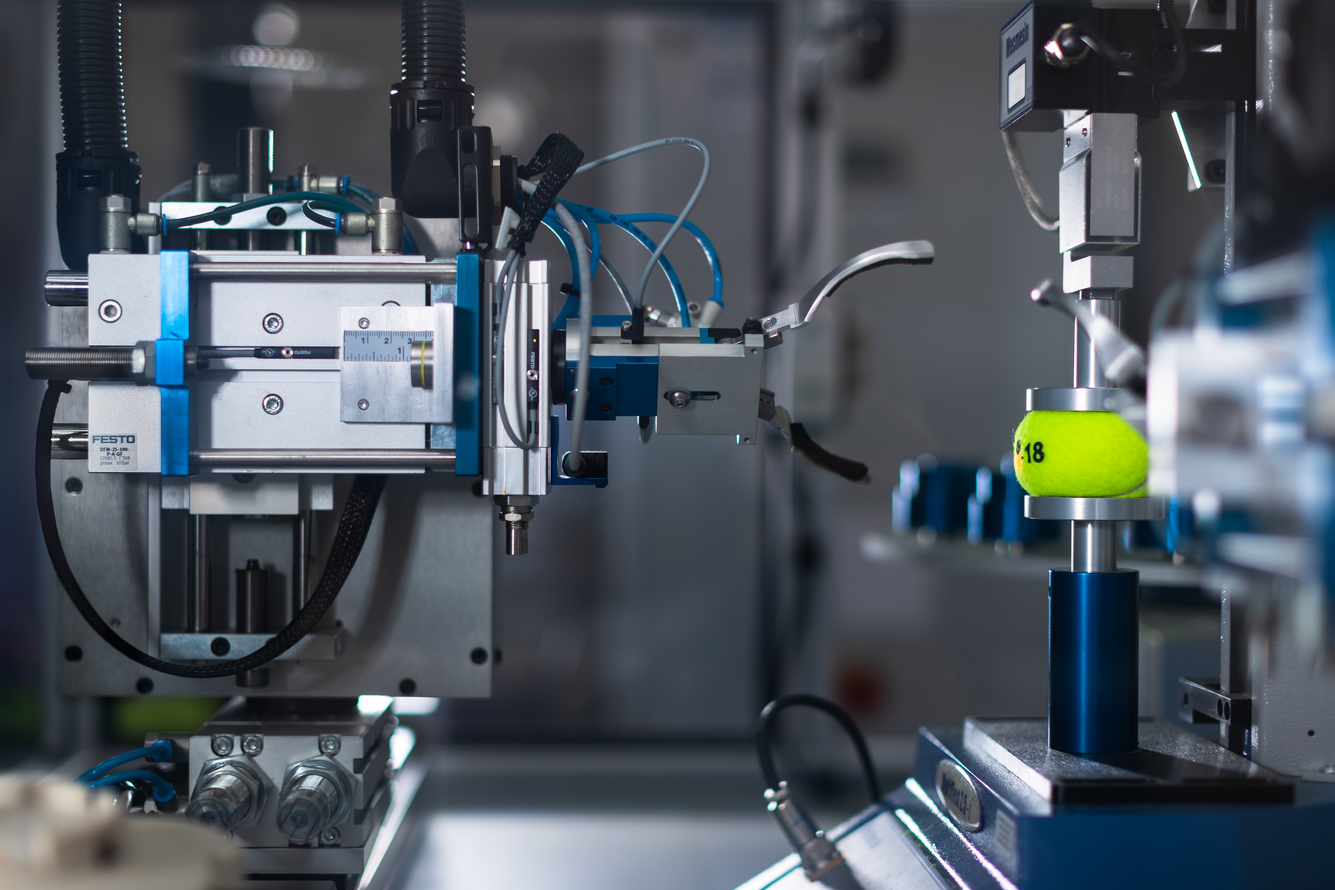
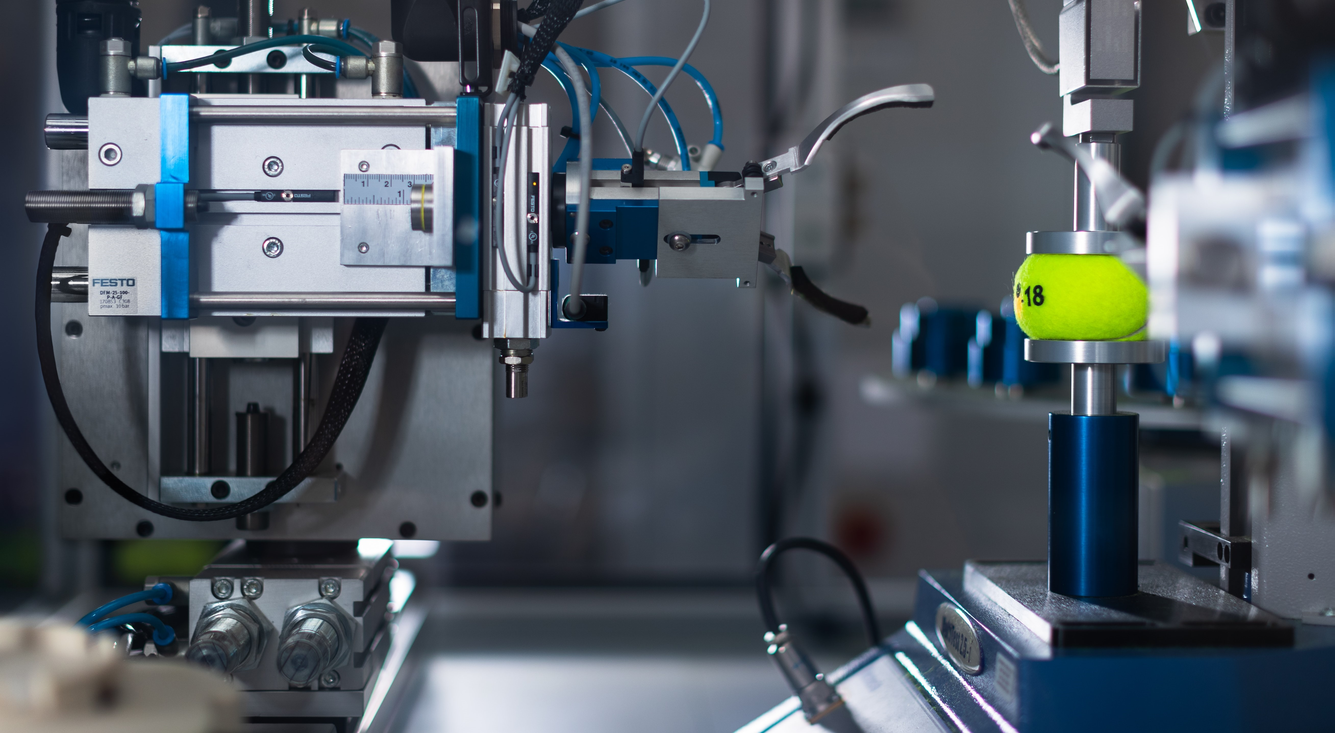
front end version intro

diff --git a/index.html b/index.html
@@ -14,6 +14,7 @@
     
     <link rel="stylesheet" href="https://use.fontawesome.com/releases/v5.7.0/css/all.css" integrity="sha384-lZN37f5QGtY3VHgisS14W3ExzMWZxybE1SJSEsQp9S+oqd12jhcu+A56Ebc1zFSJ" crossorigin="anonymous">
     <link href="https://cdn.jsdelivr.net/npm/bootstrap@5.2.3/dist/css/bootstrap.min.css" rel="stylesheet" integrity="sha384-rbsA2VBKQhggwzxH7pPCaAqO46MgnOM80zW1RWuH61DGLwZJEdK2Kadq2F9CUG65" crossorigin="anonymous">
+    <link rel="stylesheet" href="https://cdn.jsdelivr.net/npm/swiper@9/swiper-bundle.min.css" />
     <link rel="stylesheet" href="assets/css/style.css">
     <!-- Custom styles for this template -->
 
@@ -58,7 +59,7 @@
       <div id="myCarousel" class="carousel slide" data-bs-ride="carousel">
         <div class="carousel-inner">
           <div class="carousel-item active">
-            <img class="bd-placeholder-img" width="100%" height="90%" src="assets/img/tech/10.jpg" aria-hidden="true" preserveAspectRatio="xMidYMid slice" focusable="false"><rect width="100%" height="100%" fill="#777"/>
+            <img class="bd-placeholder-img img-fluid" src="assets/img/tech/10.jpg" aria-hidden="true" preserveAspectRatio="xMidYMid slice" focusable="false"><rect width="100%" height="100%" fill="#777"/>
 
             <div class="container">
               <div class="carousel-caption text-start">
@@ -70,7 +71,7 @@
             </div>
           </div>
           <div class="carousel-item">
-            <img class="bd-placeholder-img" width="100%" height="90%" src="assets/img/tech/16.jpg" aria-hidden="true" preserveAspectRatio="xMidYMid slice" focusable="false"><rect width="100%" height="100%" fill="#777"/>
+            <img class="bd-placeholder-img img-fluid" src="assets/img/tech/14.jpg" aria-hidden="true" preserveAspectRatio="xMidYMid slice" focusable="false"><rect width="100%" height="100%" fill="#777"/>
 
             <div class="container">
               <div class="carousel-caption">
@@ -81,7 +82,7 @@
             </div>
           </div>
           <div class="carousel-item">
-            <img class="bd-placeholder-img" width="100%" height="90%" src="assets/img/tech/17.jpg" aria-hidden="true" preserveAspectRatio="xMidYMid slice" focusable="false"><rect width="100%" height="100%" fill="#777"/>
+            <img class="bd-placeholder-img img-fluid" src="assets/img/tech/17.jpg" aria-hidden="true" preserveAspectRatio="xMidYMid slice" focusable="false"><rect width="100%" height="100%" fill="#777"/>
 
             <div class="container">
               <div class="carousel-caption text-end">
@@ -218,7 +219,9 @@
                 <p>Monthly digest of what's new and exciting from us.</p>
                 <div class="d-flex flex-column flex-sm-row w-100 gap-2 search">
                   <input id="newsletter1" type="text" class="form-control" placeholder="Email address">
-                  <button class="btn btn-primary text-body" type="button">Subscribe</button>
+                  <button class="btn btn-primary text-body" type="button">Subscribe
+
+                  </button>
                 </div>
               </form>
             </div>
@@ -240,6 +243,7 @@
 
     <script src="https://cdn.jsdelivr.net/npm/@popperjs/core@2.11.6/dist/umd/popper.min.js" integrity="sha384-oBqDVmMz9ATKxIep9tiCxS/Z9fNfEXiDAYTujMAeBAsjFuCZSmKbSSUnQlmh/jp3" crossorigin="anonymous"></script>
     <script src="https://cdn.jsdelivr.net/npm/bootstrap@5.2.3/dist/js/bootstrap.min.js" integrity="sha384-cuYeSxntonz0PPNlHhBs68uyIAVpIIOZZ5JqeqvYYIcEL727kskC66kF92t6Xl2V" crossorigin="anonymous"></script>
+    <link rel="stylesheet" href="https://cdn.jsdelivr.net/npm/swiper@9/swiper-bundle.js.css" />
     <script src="assets/js/main.js"></script>
 
 </body>

diff --git a/assets/css/style.css b/assets/css/style.css
@@ -81,9 +81,13 @@ input.form-control{
     outline: none !important;
 
 }
-input.form-control:focus{
-    outline: none !important;
-/*---*/
+input:focus,
+input.form-control:focus {
+    outline:none !important;
+    outline-width: 0 !important;
+    box-shadow: none;
+    -moz-box-shadow: none;
+    -webkit-box-shadow: none;
 }
 
 a.btn,
@@ -141,7 +145,6 @@ button.btn-primary:hover{
 .carousel-item {
   height: 32rem;
 }
-
 
 /* Featurettes
 ------------------------- */
